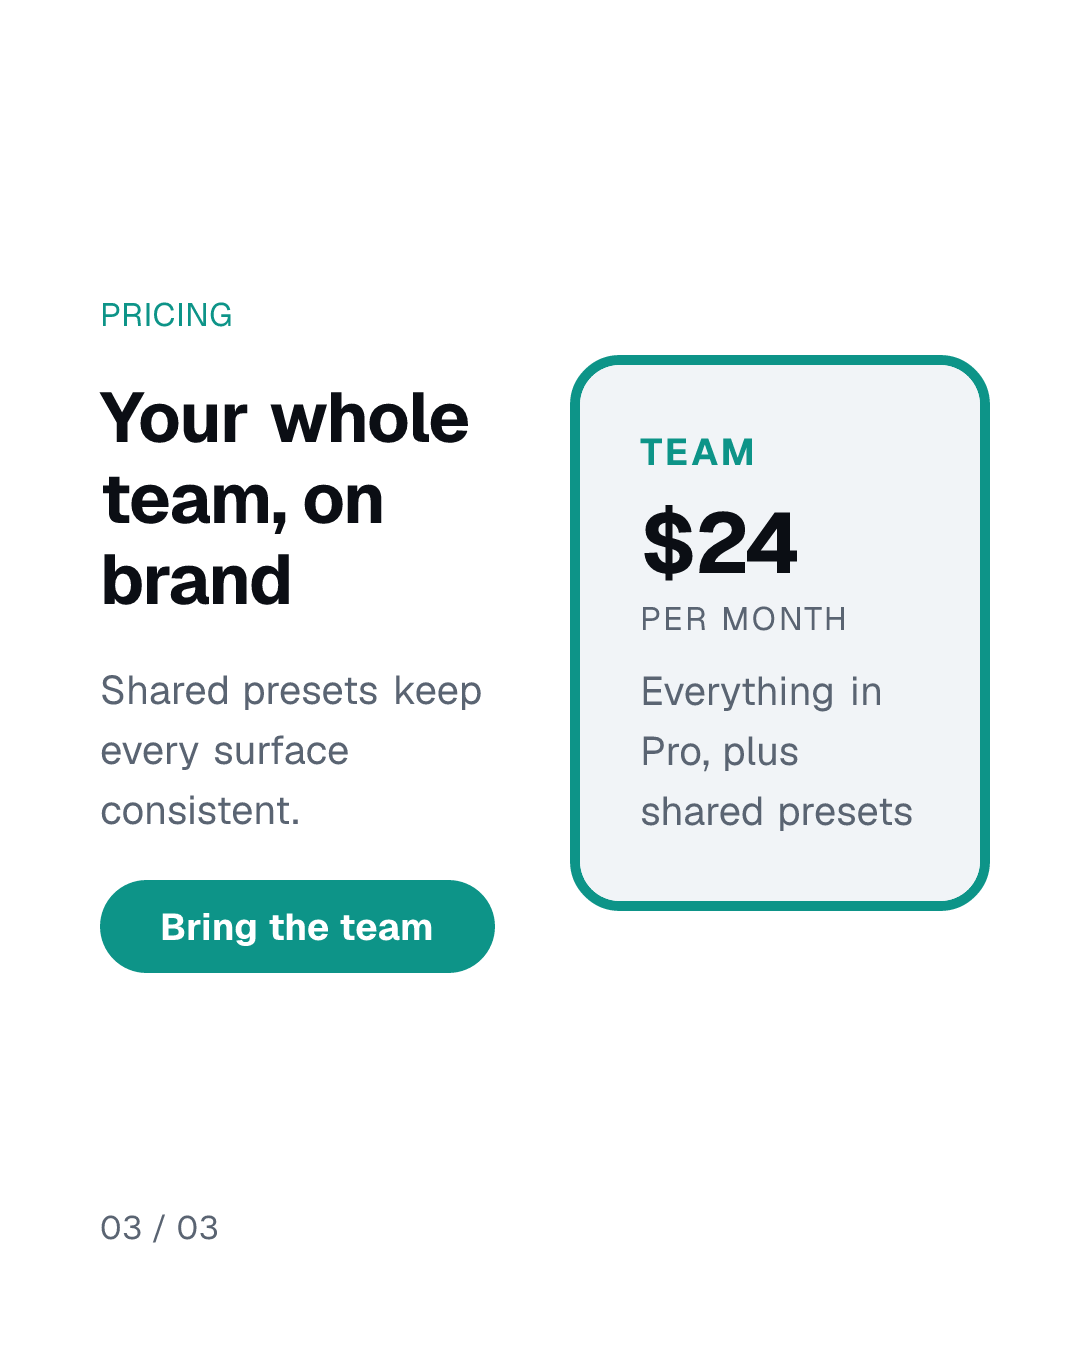
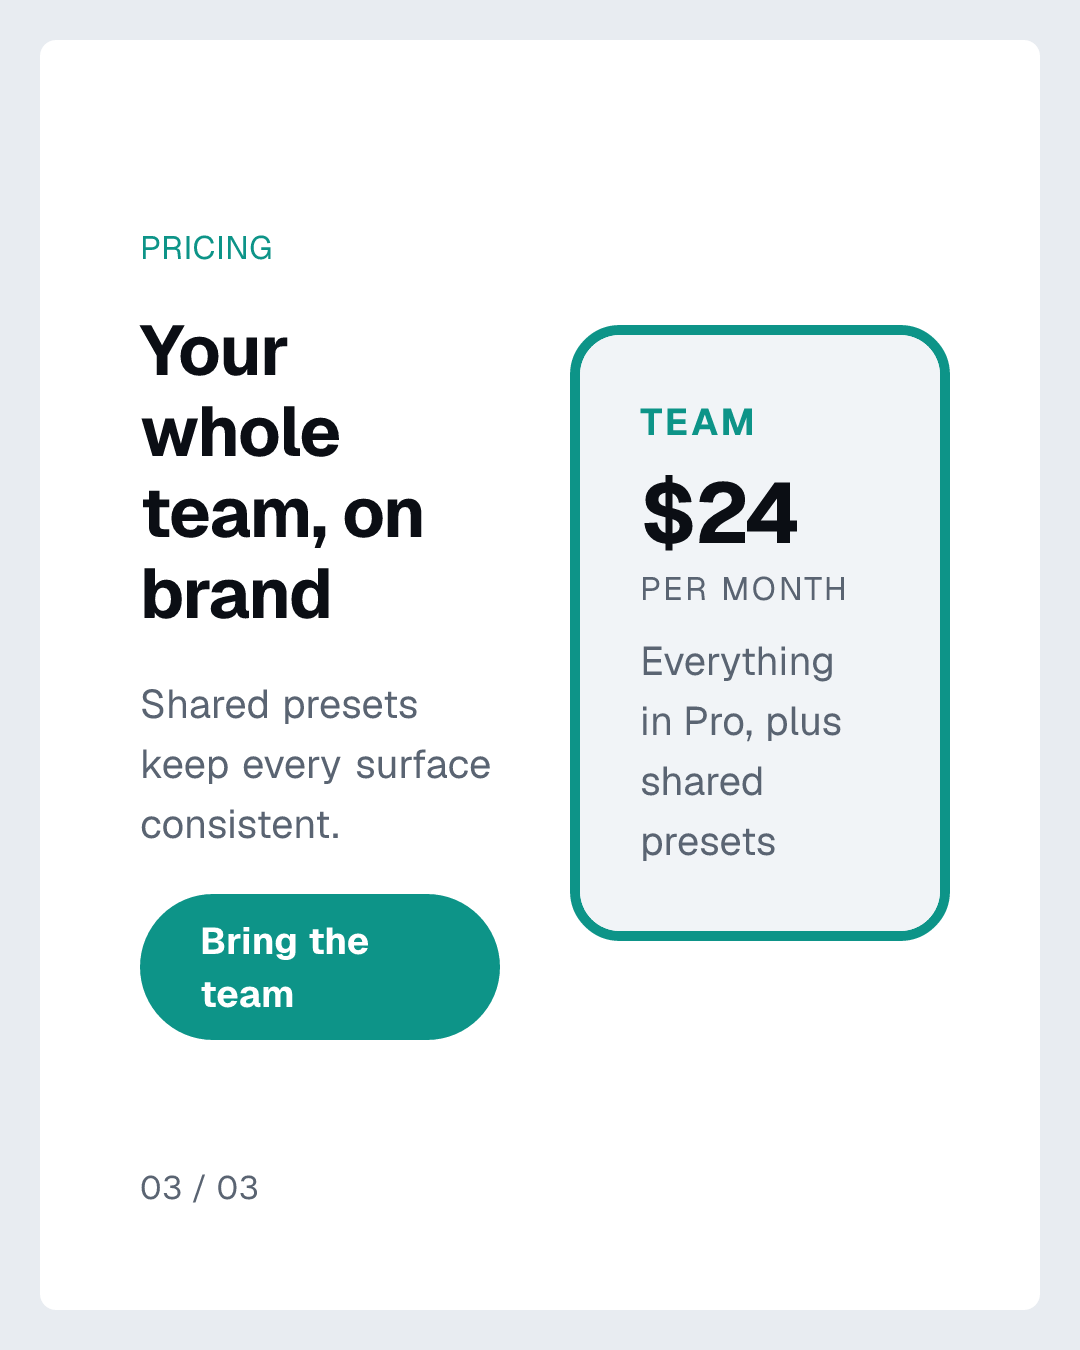
docs: strip the README to instructions and put both images on one ground
The README now explains the spec shape, the commands, and the config, and
nothing else. The light/dark story is gone from the prose, so it is gone from
the images too: the pair drops its Light and Dark captions, the carousel drops
its prefers-color-scheme swap and ships as one GIF rendered through the light
config, and marketing/dark plus launch-dark.gif are deleted.

Both images sit on `field`, now a light neutral rather than the teal. It is one
step darker than the light listing's surface so that card's edge still reads;
pure white would dissolve it. The carousel gets the same treatment through
pricing-split, which insets its content into a rounded card. The radius has to
live on that inner card rather than the canvas, because resvg composites the
frame background into every pixel to strip alpha, so a rounded outer edge would
render as a square of ground colour.

Also drops the Scheduling eyebrow from the store frames.

diff --git a/examples/source-app/mediakit.config.ts b/examples/source-app/mediakit.config.ts
@@ -112,6 +112,13 @@ const card = defineBlock({
   },
 });
 
+/**
+ * The carousel card. The frame's own background is the ground it sits on, and the content is
+ * inset from it so the rounded corners read as a card rather than as a clipped canvas. The
+ * radius has to live here rather than on the canvas: resvg composites the frame background
+ * into every pixel to strip alpha, so a rounded outer edge would render as a square of ground
+ * colour, not as transparency.
+ */
 const pricingSplit = defineLayout({
   slots: ['headline', 'card', 'footer'],
   still: ({ slots }, { tokens }) => {
@@ -126,14 +133,16 @@ const pricingSplit = defineLayout({
       gap,
     } as const;
     const footer = slots.footer ?? [];
-    return h(
+    const card = h(
       'div',
       {
         style: {
           display: 'flex',
           flexDirection: 'column',
+          flexGrow: 1,
           width: '100%',
-          height: '100%',
+          backgroundColor: colorToken(tokens, 'canvas'),
+          borderRadius: radiusToken(tokens, 'lg'),
           padding: spaceToken(tokens, '3xl'),
           gap,
         },
@@ -166,6 +175,19 @@ const pricingSplit = defineLayout({
             ...footer,
           )
         : undefined,
+    );
+
+    return h(
+      'div',
+      {
+        style: {
+          display: 'flex',
+          width: '100%',
+          height: '100%',
+          padding: spaceToken(tokens, 'lg'),
+        },
+      },
+      card,
     );
   },
 });
@@ -201,8 +223,8 @@ const screen = defineLayout({
 
 /**
  * Two screenshots on one canvas. Each slot is a column: the listing, clipped to its upper
- * portion so the headline and the top of the phone stay readable at README size, then a
- * label. The DeviceFrame is sized to the full listing aspect; this clip is the crop.
+ * portion so the headline and the top of the phone stay readable at README size, then any
+ * labels. The DeviceFrame is sized to the full listing aspect; this clip is the crop.
  * Rounding on the clip picks up `field` rather than the GitHub page colour.
  */
 const pair = defineLayout({
@@ -313,13 +335,14 @@ export default defineConfig({
      * render the device as a phone-shaped hole with only its shadow to separate it. Store
      * frames stand the device on `surface` so the bezel still separates on both themes.
      *
-     * `field` is a deep desaturated teal pulled from `accent`, the ground the README pair
-     * sits on.
+     * `field` is the ground the README pair sits on. A neutral one step darker than the light
+     * listing's `surface`, so the light card's edge still separates against it; pure white
+     * would dissolve that edge and leave only the corner radius.
      */
     color: {
       accent: '#0D9488',
       bezel: '#0B0E14',
-      field: '#1A3D3A',
+      field: '#E8ECF1',
     },
   },
   blocks: { PricingCard: card },

diff --git a/examples/source-app/configs/light.config.ts b/examples/source-app/configs/light.config.ts
@@ -1,10 +1,10 @@
 import base from '../mediakit.config.ts';
 
 /**
- * The light half of the store pair the README composites, and of the launch carousel it swaps
- * with `prefers-color-scheme`. Same specs, same custom block, same custom layout, same custom
- * preset, same copy. Only the four surface colours differ, which is the claim the project
- * makes in one image: listing page is `surface`, type is `ink`, and this file swaps both.
+ * The light half of the store pair the README composites, and the theme the launch carousel
+ * renders in. Same specs, same custom block, same custom layout, same custom preset, same copy.
+ * Only the four surface colours differ, which is the claim the project makes in one image:
+ * listing page is `surface`, type is `ink`, and this file swaps both.
  *
  * `accent` is inherited rather than restated. A second literal here would be the exact drift the
  * token contract exists to prevent: the two themes would agree until someone changed one.

diff --git a/examples/source-app/test/example.test.ts b/examples/source-app/test/example.test.ts
@@ -16,8 +16,7 @@ const cwd = fileURLToPath(new URL('../', import.meta.url));
  *
  * launch renders through `--config` rather than the config in cwd, so the flag is exercised by
  * a real consumer rather than only by the CLI's own unit tests. The light config it names is
- * the same spec in the other theme, which is what the README carousel swaps with
- * `prefers-color-scheme`.
+ * the theme the README carousel is rendered in.
  */
 const LIGHT = ['--config', 'configs/light.config.ts'];
 

diff --git a/README.md b/README.md
@@ -7,12 +7,9 @@
   <a href="LICENSE"><img src="https://img.shields.io/badge/license-MIT-blue?style=flat" alt="MIT license"></a>
 </p>
 
-<p align="center"><b>App Store screenshots that build like code.</b></p>
+<p align="center">Render App Store screenshots, carousels, and social images from a JSON spec.</p>
 
-<p align="center">
-  One spec, one command, every size a store asks for.<br>
-  Rendered in CI, reviewed in a pull request, never opened in a design tool.
-</p>
+## Install
 
 ```bash
 npm i -D mediakit
@@ -20,46 +17,59 @@ npx mediakit init
 npx mediakit render marketing/example.spec.json
 ```
 
-Node 22 or newer. Zero network calls, ever, including install.
+Node 22 or newer. No network calls at any point, including install.
 
-## App Store Screenshots
+## How it works
+
+A spec names one or more presets (the canvas sizes) and a list of frames. A frame names a
+layout and the blocks that fill it. `render` reads `mediakit.config.ts` for tokens, resolves
+every name against a registry, and writes one PNG per frame.
+
+```json
+{
+  "id": "store",
+  "preset": ["ios-6.9", "play-phone"],
+  "frames": [
+    {
+      "layout": "centered",
+      "blocks": [
+        { "type": "Background", "props": { "color": "surface" } },
+        { "type": "Headline", "props": { "text": "Your whole day, one screen" } },
+        {
+          "type": "DeviceFrame",
+          "props": { "chrome": "phone-notch", "src": "captures/today.png" }
+        }
+      ]
+    }
+  ]
+}
+```
+
+Output goes to `marketing/<spec-id>/frame-NN.png`, nested under the preset name when a spec
+lists more than one.
+
+## Screenshots
 
 <p align="center">
-  <img width="560" src="docs/assets/store-pair.png" alt="A light and a dark App Store screenshot side by side: the same app screen in a phone frame under the same headline, differing only in color tokens">
+  <img width="560" src="docs/assets/store-pair.png" alt="Two App Store screenshots side by side: an app screen in a phone frame under a headline">
 </p>
 
-Same spec, same blocks, same copy. Only the color tokens differ, so the second theme is a config file, not a second set of images.
+`DeviceFrame` puts a screen inside a phone. Set `src` to a real capture, or to another spec's
+render if you build the screen from blocks instead.
 
-You bring the screen. mediakit adds the frame, the headline, the sizing, and the checks.
-
-Point at a real screenshot:
-
-```json
-{ "type": "DeviceFrame", "props": { "chrome": "phone", "src": "captures/today.png" } }
-```
-
-Or build the screen from blocks, no simulator, nothing to capture:
-
-```json
-{ "type": "DeviceFrame", "props": { "chrome": "phone-notch", "src": "marketing/screen.png" } }
-```
-
-`phone` leaves room for the status bar a capture already has. `phone-notch` draws one.
-
-> Seeding a database for screenshots? Give it its own account. `(Test User)` names and `$0` dashboards look fine in a test and terrible in a listing.
+Use `chrome: "phone"` for a capture that already contains a status bar, and
+`chrome: "phone-notch"` for a screen that does not, which draws one.
 
 ## Carousels
 
 <p align="center">
-  <picture>
-    <source media="(prefers-color-scheme: dark)" srcset="docs/assets/launch-dark.gif">
-    <img width="280" src="docs/assets/launch-light.gif" alt="A three-frame pricing carousel cycling through Solo, Pro, and Team cards">
-  </picture>
+  <img width="280" src="docs/assets/launch.gif" alt="A three-frame pricing carousel cycling through Solo, Pro, and Team cards">
 </p>
 
-Three frames, one spec, rendered to `frame-01` through `frame-03`. A README cannot swipe, so this one loops.
+Three frames in one spec render to `frame-01` through `frame-03`. A README cannot swipe, so
+this one loops.
 
-The block, the layout, and the canvas size above are not built in. All three come from a config file, which is how anything mediakit does not ship gets added.
+The block, the layout, and the canvas size above are registered in a config file, not built in.
 
 ## Commands
 
@@ -70,13 +80,13 @@ The block, the layout, and the canvas size above are not built in. All three com
 | `preview` | a local page that re-renders as you edit           |
 | `check`   | catch what a store would reject, before you upload |
 
-`check` also works on screenshots you already have:
+`check` also runs against images you already have:
 
 ```bash
 npx mediakit check ./screenshots --preset ios-6.9
 ```
 
-Add `--config <path>` to any command to keep several configs, say a light and a dark one, in one folder.
+`--config <path>` points any command at a different config file.
 
 ## Sizes
 
@@ -84,11 +94,10 @@ App Store and Play: `ios-6.9` `ios-6.5` `ipad-13` `play-phone` `play-feature`
 Social: `ig-portrait` `ig-square` `story` `li-portrait`
 Web: `github-social` `producthunt-gallery` `cws-screenshot` `cws-marquee`
 
-Each is checked against that channel's published rules: exact pixels, frame counts, alpha channel. A size mediakit does not ship is a few lines of config, not a fork.
+Each is checked against that channel's published rules: exact pixels, frame counts, alpha
+channel. A size mediakit does not ship is a few lines of config.
 
-## Your Design System
-
-Point mediakit at the tokens you already have. It will not make you retype your brand.
+## Config
 
 ```ts
 export default defineConfig({
@@ -99,11 +108,13 @@ export default defineConfig({
 });
 ```
 
-Only `color.accent` is required. A font comes bundled, so `init` renders on the first run.
+Only `color.accent` is required. A font is bundled, so `init` renders on the first run. Blocks
+read tokens, so changing a token changes every frame that uses it.
 
-## Same Input, Same Pixels
+## Same input, same pixels
 
-Render twice and the files are byte-identical, on macOS and Linux. When a PNG changes in a pull request, something really changed. Every size is tested for it.
+Two renders of the same spec produce byte-identical PNGs, on macOS and Linux. A PNG that
+changes in a pull request is a real change. Every size is tested for it.
 
 ## Docs
 

diff --git a/CHANGELOG.md b/CHANGELOG.md
@@ -7,13 +7,12 @@ the person reading it is you, six months from now, when a project stops building
 
 ### Changed
 
-- **README images no longer link at example fixtures.** The light/dark store pair is one
-  cropped composite spec (`store-pair`): both listings on a `field` colour pulled from the
-  example's accent, with Light and Dark labels in the spec. The carousel uses GitHub's
-  `<picture>` plus `prefers-color-scheme` to swap themes. Display copies live in `docs/assets/`
-  at 2x the README width, so a fixture change cannot silently rewrite the page, and an
-  `ios-6.9` frame cannot render at full container height. `pnpm render-readme-assets` still
-  gates drift in CI.
+- **README images no longer link at example fixtures.** The store pair is one cropped
+  composite spec (`store-pair`): both listings on a `field` colour pulled from the example's
+  accent. The carousel is a single GIF rendered through the light config. Display copies live
+  in `docs/assets/` at 2x the README width, so a fixture change cannot silently rewrite the
+  page, and an `ios-6.9` frame cannot render at full container height.
+  `pnpm render-readme-assets` still gates drift in CI.
 
 - **`chrome: "phone"` no longer draws a notch.** It framed every screenshot with a drawn pill,
   including the case the README calls the headline one: a real capture from a device or
